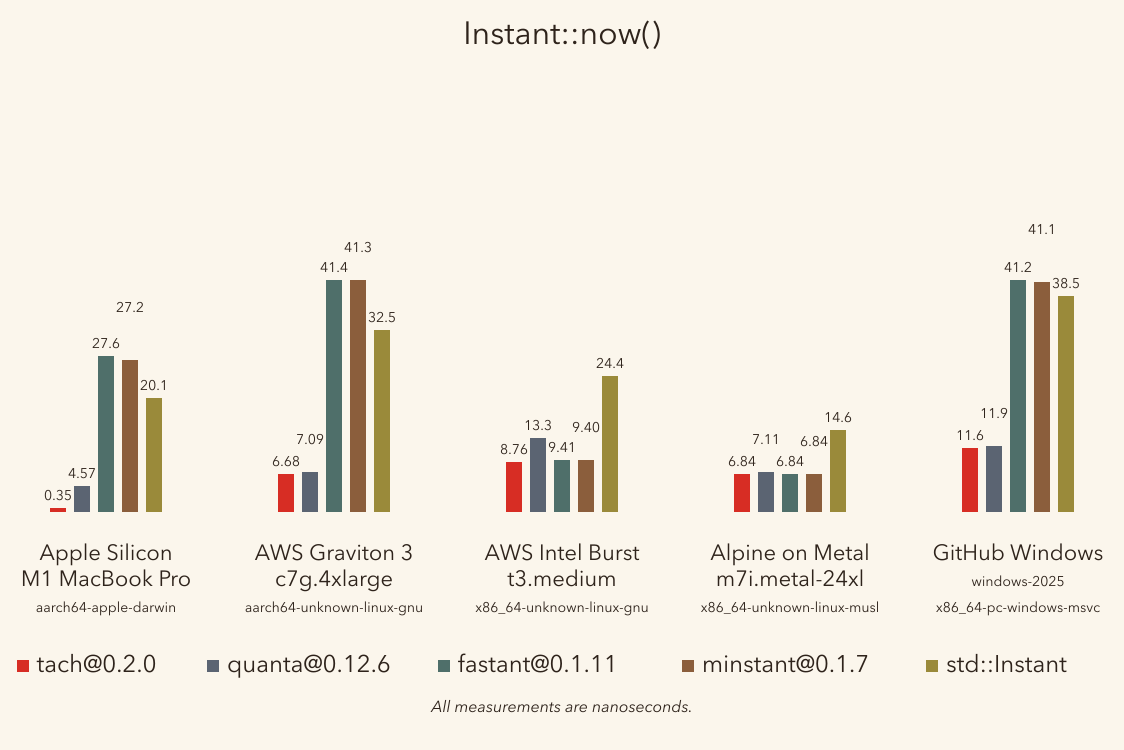
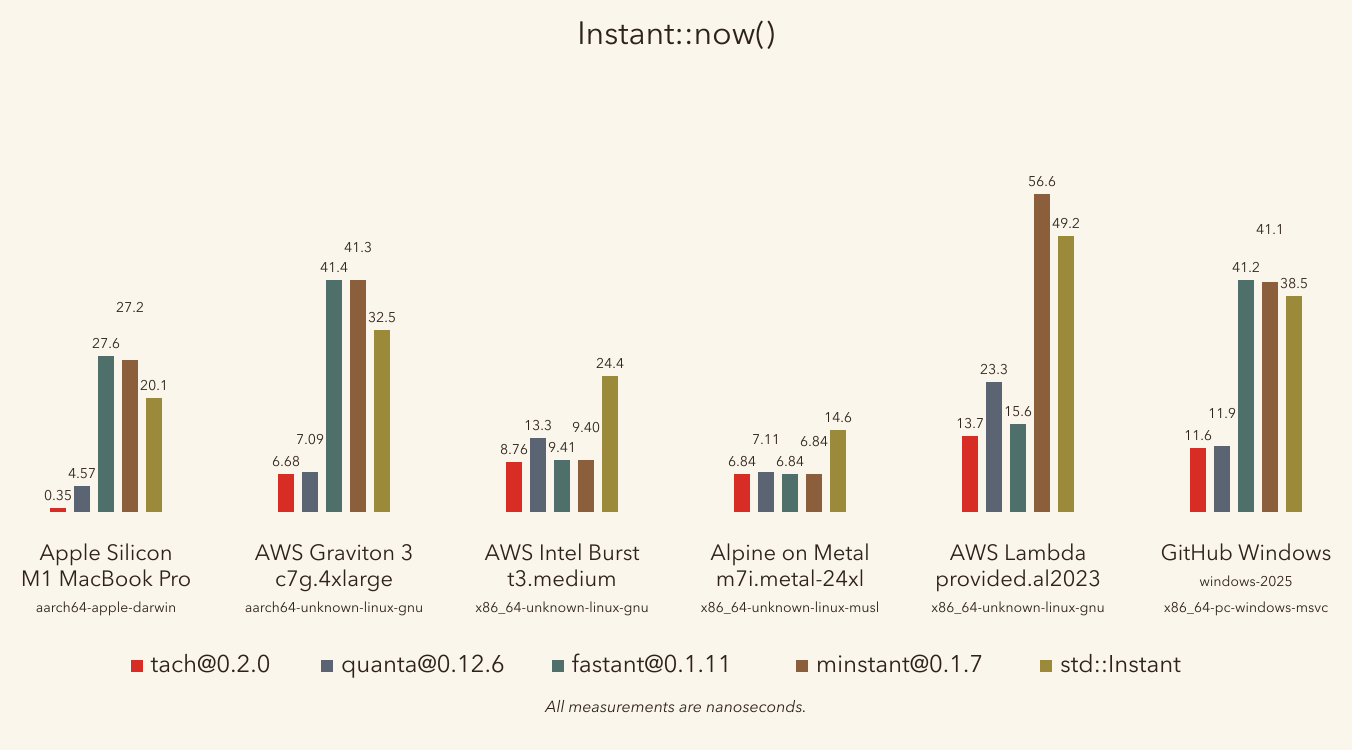
docs(benches): add AWS Lambda cell (provided.al2023 x86_64)
Built a standalone Lambda handler at /tmp/tach-lambda-bench/ (separate
Cargo project, depends on tach via path; deploys via cargo-lambda) that
runs the same inline measurement as the criterion bench harness. Invoked
once, captured the JSON, then deleted the function.

Numbers (ns/call, in-Lambda Firecracker VM, 1 GB memory):
  tach.now           13.67
  tach.elapsed       71.74
  tach.elapsed_fast  48.55   <- fastest elapsed in the cell
  quanta.now         23.34
  quanta.elapsed     54.21
  fastant.now        15.57
  fastant.elapsed    51.83
  minstant.now       56.56   <- minstant fell back to syscall
  minstant.elapsed   138.04
  std.now            49.18
  std.elapsed        107.95

Updated INSTANT_GROUPS and ELAPSED_GROUPS in render_benchmark.py.
BENCHMARKS.md gains a Lambda section with the cargo-lambda recipe
(also explains the pre-created IAM role pattern that avoids granting
the bench user iam:CreateRole).

diff --git a/benches/assets/render_benchmark.py b/benches/assets/render_benchmark.py
@@ -35,6 +35,8 @@ GROUPS = [
    [8.757, 13.282, 9.408, 9.398, 24.352]),
   (("Alpine on Metal", "m7i.metal-24xl", "x86_64-unknown-linux-musl"),
    [6.842, 7.111, 6.842, 6.843, 14.649]),
+  (("AWS Lambda", "provided.al2023", "x86_64-unknown-linux-gnu"),
+   [13.669, 23.335, 15.574, 56.563, 49.177]),
   (("GitHub Windows", "windows-2025", "x86_64-pc-windows-msvc"),
    [11.561, 11.852, 41.247, 41.071, 38.476]),
 ]
@@ -57,6 +59,8 @@ ELAPSED_GROUPS = [
    [42.113, 29.282, 27.842, 31.020, 31.177, 53.736]),
   (("Alpine on Metal", "m7i.metal-24xl", "x86_64-unknown-linux-musl"),
    [20.526, 15.659, 17.497, 21.422, 21.415, 32.750]),
+  (("AWS Lambda", "provided.al2023", "x86_64-unknown-linux-gnu"),
+   [71.741, 48.550, 54.207, 51.828, 138.038, 107.954]),
   (("GitHub Windows", "windows-2025", "x86_64-pc-windows-msvc"),
    [23.690, 22.817, 24.683, 94.983, 94.943, 79.865]),
 ]

diff --git a/BENCHMARKS.md b/BENCHMARKS.md
@@ -14,6 +14,7 @@ environment cells. All numbers are nanoseconds per call (lower is better).
 | `aarch64-unknown-linux-gnu` | Graviton 3 Nitro VM | c7g.4xlarge | **6.68** | 7.09 | 41.43 | 41.34 | 32.53 |
 | `x86_64-unknown-linux-gnu` | Intel burst VM | t3.medium | **8.76** | 13.28 | 9.41 | 9.40 | 24.35 |
 | `x86_64-unknown-linux-musl` | Alpine Docker on Intel host | m7i.metal-24xl | **6.84** | 7.11 | **6.84** | **6.84** | 14.65 |
+| `x86_64-unknown-linux-gnu` | AWS Lambda (Firecracker) | provided.al2023 | **13.67** | 23.34 | 15.57 | 56.56 | 49.18 |
 | `x86_64-apple-darwin` | GitHub Actions | macos-13 | TBD | TBD | TBD | TBD | TBD |
 | `x86_64-pc-windows-msvc` | GitHub Actions | windows-2025 | **11.56** | 11.85 | 41.25 | 41.07 | 38.48 |
 
@@ -25,6 +26,7 @@ environment cells. All numbers are nanoseconds per call (lower is better).
 | `aarch64-unknown-linux-gnu` | Graviton 3 Nitro VM | c7g.4xlarge | 15.19 | **13.51** | 15.34 | 87.17 | 87.24 | 70.44 |
 | `x86_64-unknown-linux-gnu` | Intel burst VM | t3.medium | 42.11 | 29.28 | **27.84** | 31.02 | 31.18 | 53.74 |
 | `x86_64-unknown-linux-musl` | Alpine Docker on Intel host | m7i.metal-24xl | 20.53 | **15.66** | 17.50 | 21.42 | 21.42 | 32.75 |
+| `x86_64-unknown-linux-gnu` | AWS Lambda (Firecracker) | provided.al2023 | 71.74 | **48.55** | 54.21 | 51.83 | 138.04 | 107.95 |
 | `x86_64-apple-darwin` | GitHub Actions | macos-13 | TBD | TBD | TBD | TBD | TBD | TBD |
 | `x86_64-pc-windows-msvc` | GitHub Actions | windows-2025 | 23.69 | **22.82** | 24.68 | 94.98 | 94.94 | 79.87 |
 
@@ -116,9 +118,32 @@ gh run view <run-id> --log --job=<job-id> | grep "time:"   # extract numbers
 
 **Gotcha**: GitHub runner labels are confusing — `macos-15`/`macos-14` are Apple Silicon (ARM). `macos-13` is the only Intel macOS runner available. `windows-2025` and `ubuntu-24.04` are x86_64.
 
-### AWS Lambda (deferred)
+### AWS Lambda
 
-For `provided.al2023` x86_64 — not yet included. Would require `cargo-lambda` setup, an IAM role, a Lambda handler that runs the bench in-process, deployment, invocation, and CloudWatch log parsing.
+For `provided.al2023` x86_64. A standalone Lambda handler (not the criterion bench — Lambda's runtime doesn't accommodate criterion's filesystem assumptions) runs the bench in-process and returns the per-call timings as JSON. Source at `/tmp/tach-lambda-bench/` (separate Cargo project, depends on `tach` via path).
+
+```bash
+# Build (uses zig under the hood for cross-compile)
+cd /tmp/tach-lambda-bench
+cargo lambda build --release --output-format=zip
+
+# Deploy (requires a pre-created execution role; one-time setup with admin creds)
+cargo lambda deploy --profile $YOUR_PROFILE --region us-east-2 \
+  --iam-role arn:aws:iam::$ACCT:role/tach-bench-lambda-role \
+  --memory 1024 --timeout 300 tach-lambda-bench
+
+# Invoke and capture the JSON response
+aws lambda invoke --function-name tach-lambda-bench \
+  --profile $YOUR_PROFILE --region us-east-2 \
+  --cli-binary-format raw-in-base64-out --payload '{}' /tmp/result.json
+cat /tmp/result.json | python3 -m json.tool
+
+# Cleanup
+aws lambda delete-function --function-name tach-lambda-bench \
+  --profile $YOUR_PROFILE --region us-east-2
+```
+
+**Note**: Lambda numbers are noisier than EC2 (Firecracker VM with shared CPU). They're useful as a relative comparison but don't compare directly to bare-metal numbers.
 
 ## Updating the chart
 
